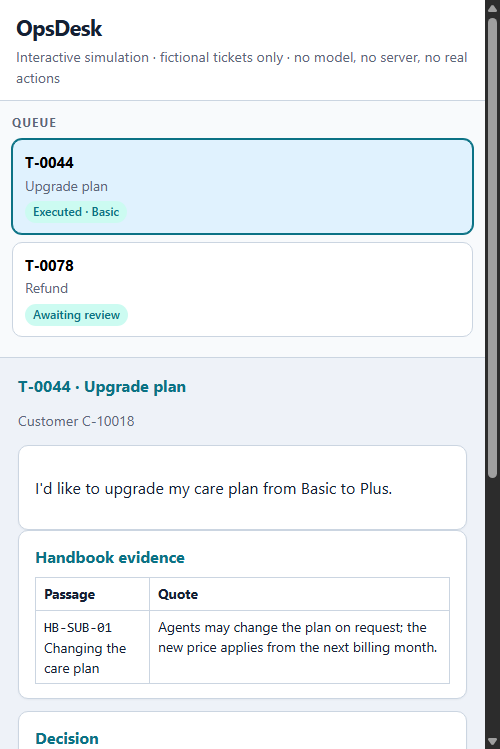
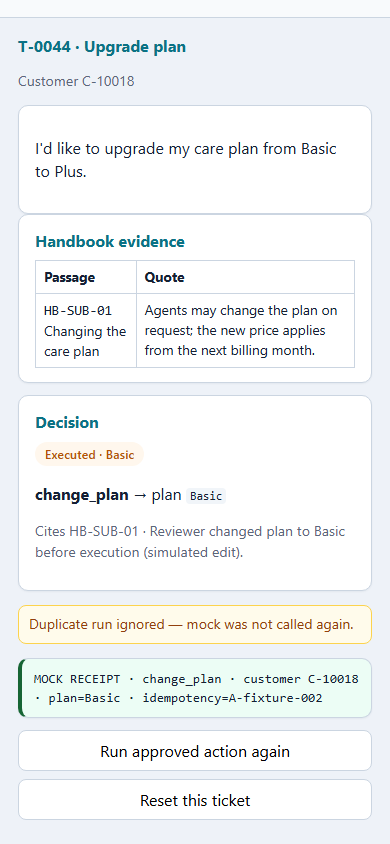
Fix OpsDesk evidence captures: CDP viewports, scroll, measured PNG headers.
Use Emulation DPR 1 at 390/960 CSS px; scroll receipt, refusal, and local execution rows into view; manifest records inner and PNG dimensions.

Changed region(s): [[0.0, 0.0, 1.0, 1.0], [0.0308, 0.4913, 0.8923, 0.6756]]

diff --git a/scripts/capture_t5_evidence.py b/scripts/capture_t5_evidence.py
@@ -1,7 +1,8 @@
-"""Capture README evidence: local FastAPI via HTTP + fixture via real CDP clicks (no URL state injection)."""
+"""Capture README evidence: CDP viewports (DPR 1), scroll-into-view, manifest with measured PNG headers."""
 from __future__ import annotations
 
 import json
+import os
 import re
 import shutil
 import subprocess
@@ -17,21 +18,31 @@ IMG = ROOT / "docs" / "images"
 MANIFEST = ROOT / "docs" / "images" / "opsdesk-t5-evidence-manifest.json"
 FIX = "http://127.0.0.1:8767/fixture-demo/"
 NODE = shutil.which("node") or "node"
+SCRIPT = ROOT / "scripts" / "capture_fixture_cdp.mjs"
 
+LOCAL_SCROLL_REVISE = """(() => {
+  for (const e of document.querySelectorAll('em')) {
+    if (e.textContent.includes('Approved but not run yet')) {
+      e.closest('div.card')?.scrollIntoView({ block: 'start', behavior: 'instant' });
+    }
+  }
+  for (const b of document.querySelectorAll('button')) {
+    if (b.textContent.includes('Save edit as new draft')) {
+      b.scrollIntoView({ block: 'center', behavior: 'instant' });
+    }
+    if (b.textContent.includes('Run mock action')) {
+      b.scrollIntoView({ block: 'center', behavior: 'instant' });
+    }
+  }
+})()"""
 
-def find_browser() -> list[str]:
-    for p in (
-        Path(r"C:\Program Files\Google\Chrome\Application\chrome.exe"),
-        Path(r"C:\Program Files (x86)\Google\Chrome\Application\chrome.exe"),
-        Path(r"C:\Program Files\Microsoft\Edge\Application\msedge.exe"),
-    ):
-        if p.is_file():
-            return [str(p)]
-    for name in ("msedge", "chrome", "google-chrome", "chromium"):
-        p = shutil.which(name)
-        if p:
-            return [p]
-    return []
+LOCAL_SCROLL_EXECUTIONS = """(() => {
+  const hits = [...document.querySelectorAll('p')].filter((p) =>
+    p.textContent.includes('Execution') && (p.textContent.includes('succeeded') || p.textContent.includes('duplicate_ignored'))
+  );
+  hits.forEach((p) => p.scrollIntoView({ block: 'center', behavior: 'instant' }));
+  if (hits.length) hits[hits.length - 1].scrollIntoView({ block: 'end', behavior: 'instant' });
+})()"""
 
 
 def post_local(base: str, path: str, data: dict | None = None) -> None:
@@ -50,30 +61,61 @@ def get_local(base: str, path: str) -> str:
     return urllib.request.urlopen(req, timeout=30).read().decode()
 
 
-def headless_shot(browser: list[str], url: str, out: Path, w: int, h: int) -> None:
-    out.parent.mkdir(parents=True, exist_ok=True)
-    cmd = browser + [
-        "--headless=new",
-        "--disable-gpu",
-        f"--window-size={w},{h}",
-        f"--screenshot={out}",
-        url,
-    ]
-    r = subprocess.run(cmd, capture_output=True, text=True)
-    if r.returncode != 0 or not out.is_file():
-        raise SystemExit(f"screenshot failed: {r.stderr or r.stdout}")
+def parse_meta(stdout: str) -> dict:
+    for line in stdout.splitlines():
+        if line.startswith("CAPTURE_META"):
+            return json.loads(line[len("CAPTURE_META") :])
+    raise SystemExit(f"CDP capture missing CAPTURE_META in:\n{stdout}")
 
 
-def fixture_clicks(url: str, out: Path, w: int, h: int, testids: list[str]) -> None:
-    script = ROOT / "scripts" / "capture_fixture_cdp.mjs"
-    cmd = [NODE, str(script), url, str(out), str(w), str(h), *testids]
-    r = subprocess.run(cmd, cwd=ROOT, capture_output=True, text=True)
+def cdp_capture(
+    url: str,
+    out: Path,
+    css_w: int,
+    css_h: int,
+    clicks: list[str] | None = None,
+    scroll_selectors: list[str] | None = None,
+    scroll_js: str | None = None,
+) -> dict:
+    env = os.environ.copy()
+    if scroll_selectors:
+        env["CAPTURE_SCROLL"] = ",".join(scroll_selectors)
+    else:
+        env.pop("CAPTURE_SCROLL", None)
+    if scroll_js:
+        env["CAPTURE_SCROLL_JS"] = scroll_js
+    else:
+        env.pop("CAPTURE_SCROLL_JS", None)
+    cmd = [NODE, str(SCRIPT), url, str(out), str(css_w), str(css_h), *(clicks or [])]
+    r = subprocess.run(cmd, cwd=ROOT, capture_output=True, text=True, env=env)
     if r.returncode != 0:
-        raise SystemExit(r.stderr or r.stdout or "fixture CDP capture failed")
+        raise SystemExit(r.stderr or r.stdout or "CDP capture failed")
     print(r.stdout.strip())
+    return parse_meta(r.stdout)
 
 
-def prepare_local(base: str) -> tuple[str, str]:
+def entry(
+    rel: str,
+    interaction: str,
+    outcome_claim: str,
+    pixels_visible: str,
+    meta: dict,
+) -> dict:
+    return {
+        "file": rel.replace("\\", "/"),
+        "interaction": interaction,
+        "outcome_claim": outcome_claim,
+        "css_viewport_requested": meta["cssViewport"],
+        "inner_width": meta["innerWidth"],
+        "inner_height": meta["innerHeight"],
+        "device_pixel_ratio": meta["devicePixelRatio"],
+        "png_width": meta["pngWidth"],
+        "png_height": meta["pngHeight"],
+        "pixels_visible": pixels_visible,
+    }
+
+
+def prepare_local_approved(base: str) -> None:
     post_local(base, "/tickets/T-0044/draft")
     html = get_local(base, "/tickets/T-0044")
     pids = re.findall(r"action='/proposals/(P-[a-f0-9]+)/decide'", html)
@@ -82,13 +124,12 @@ def prepare_local(base: str) -> tuple[str, str]:
         raise SystemExit("local ticket page missing approve form")
     post_local(
         base,
-        f"/proposals/{pids[0]}/decide",
-        {"reviewer_id": "rev-agent-ada", "decision": "approve", "seen_hash": hashes[0], "reason": ""},
+        f"/proposals/{pids[-1]}/decide",
+        {"reviewer_id": "rev-agent-ada", "decision": "approve", "seen_hash": hashes[-1], "reason": ""},
     )
     html2 = get_local(base, "/tickets/T-0044")
     if "Approved but not run yet" not in html2:
         raise SystemExit("local approved-unexecuted state missing")
-    return pids[0], hashes[0]
 
 
 def prepare_local_executed(base: str) -> None:
@@ -101,12 +142,9 @@ def prepare_local_executed(base: str) -> None:
 
 
 def main() -> int:
-    browser = find_browser()
-    if not browser:
-        raise SystemExit("Chrome or Edge required for screenshots")
     port = 8772
     base = f"http://127.0.0.1:{port}"
-    manifest = []
+    manifest: list[dict] = []
     db = Path(tempfile.mkdtemp()) / "capture.sqlite"
     server = subprocess.Popen(
         [sys.executable, "-m", "opsdesk.app", "--port", str(port), "--db", str(db)],
@@ -134,78 +172,98 @@ def main() -> int:
                 stdout=subprocess.DEVNULL,
                 stderr=subprocess.DEVNULL,
             )
-            time.sleep(0.4)
+            time.sleep(0.5)
 
-        prepare_local(base)
-        out_revise = IMG / "opsdesk-local-approved-revise.png"
-        headless_shot(browser, f"{base}/tickets/T-0044", out_revise, 920, 880)
+        prepare_local_approved(base)
+        m1 = cdp_capture(
+            f"{base}/tickets/T-0044",
+            IMG / "opsdesk-local-approved-revise.png",
+            920,
+            1050,
+            scroll_js=LOCAL_SCROLL_REVISE,
+        )
         manifest.append(
-            {
-                "file": str(out_revise.relative_to(ROOT)),
-                "viewport": "920x880",
-                "interaction": "HTTP draft + approve (approved-but-unexecuted)",
-                "outcome": "Save edit as new draft + approved banner visible",
-            }
+            entry(
+                "docs/images/opsdesk-local-approved-revise.png",
+                "Fresh in-memory desk: HTTP draft T-0044 + approve (CDP viewport, scroll revise controls)",
+                "Approved-but-unexecuted banner, Save edit as new draft, Run mock action",
+                "Banner, edit form fields, Save edit and Run mock action buttons legible on #f4f7fb",
+                m1,
+            )
         )
 
         prepare_local_executed(base)
-        out_replay = IMG / "opsdesk-local-receipt-replay.png"
-        headless_shot(browser, f"{base}/tickets/T-0044", out_replay, 920, 920)
+        m2 = cdp_capture(
+            f"{base}/tickets/T-0044",
+            IMG / "opsdesk-local-receipt-replay.png",
+            920,
+            1100,
+            scroll_js=LOCAL_SCROLL_EXECUTIONS,
+        )
         manifest.append(
-            {
-                "file": str(out_replay.relative_to(ROOT)),
-                "viewport": "920x920",
-                "interaction": "HTTP approve + execute twice",
-                "outcome": "One succeeded execution + duplicate_ignored in page",
-            }
+            entry(
+                "docs/images/opsdesk-local-receipt-replay.png",
+                "Same ticket: HTTP execute twice (same approval idempotency key)",
+                "Both succeeded and duplicate_ignored execution rows visible",
+                "Two Execution paragraphs with outcomes succeeded and duplicate_ignored and shared idempotency key",
+                m2,
+            )
         )
 
-        fixture_clicks(
+        clicks_full = ["approve-plus", "revise-basic", "approve-basic", "run-basic", "replay"]
+        m3 = cdp_capture(
             FIX,
             IMG / "opsdesk-fixture-simulation.png",
             960,
             980,
-            ["approve-plus", "revise-basic", "approve-basic", "run-basic", "replay"],
+            clicks_full,
+            scroll_selectors=[".receipt", ".duplicate-note"],
         )
         manifest.append(
-            {
-                "file": "docs/images/opsdesk-fixture-simulation.png",
-                "viewport": "960x980",
-                "interaction": "Clicks: approve-plus → revise-basic → approve-basic → run-basic → replay",
-                "outcome": "Basic receipt idempotency A-fixture-002 + duplicate ignored message",
-            }
+            entry(
+                "docs/images/opsdesk-fixture-simulation.png",
+                "Fixture clicks: " + " → ".join(clicks_full),
+                "Basic receipt idempotency A-fixture-002 + duplicate ignored note",
+                "Green receipt line with A-fixture-002 and amber duplicate-run ignored message",
+                m3,
+            )
         )
 
-        fixture_clicks(
+        m4 = cdp_capture(
             FIX,
             IMG / "opsdesk-fixture-simulation-mobile.png",
             390,
             844,
-            ["approve-plus", "revise-basic", "approve-basic", "run-basic", "replay"],
+            clicks_full,
+            scroll_selectors=[".receipt", ".duplicate-note"],
         )
         manifest.append(
-            {
-                "file": "docs/images/opsdesk-fixture-simulation-mobile.png",
-                "viewport": "390x844",
-                "interaction": "Same click path at phone width (520px CSS breakpoint active)",
-                "outcome": "Stacked layout with receipt visible",
-            }
+            entry(
+                "docs/images/opsdesk-fixture-simulation-mobile.png",
+                "Same click path at CSS 390×844 (Emulation DPR 1)",
+                "Stacked phone layout with receipt id and duplicate ignored text",
+                "Receipt idempotency=A-fixture-002 and duplicate ignored message in viewport after scroll",
+                m4,
+            )
         )
 
-        fixture_clicks(
+        clicks_stale = ["approve-plus", "revise-basic", "run-stale"]
+        m5 = cdp_capture(
             FIX,
             IMG / "opsdesk-fixture-stale-refusal-narrow.png",
             390,
             820,
-            ["approve-plus", "revise-basic", "run-stale"],
+            clicks_stale,
+            scroll_selectors=[".refusal", '[data-testid="approve-basic"]', '[data-testid="run-stale"]'],
         )
         manifest.append(
-            {
-                "file": "docs/images/opsdesk-fixture-stale-refusal-narrow.png",
-                "viewport": "390x820",
-                "interaction": "Clicks: approve-plus → revise-basic → run-stale",
-                "outcome": "Superseded approval refusal styling visible",
-            }
+            entry(
+                "docs/images/opsdesk-fixture-stale-refusal-narrow.png",
+                "Fixture clicks: " + " → ".join(clicks_stale),
+                "Superseded approval refusal + Approve for Basic control",
+                "Red refusal text for voided approval and Approve for Basic button visible",
+                m5,
+            )
         )
 
         MANIFEST.write_text(json.dumps(manifest, indent=2), encoding="utf-8")

diff --git a/README.md b/README.md
@@ -338,16 +338,16 @@ baseline, and every action is a mock. `scripts/record_demo.py` makes it again (n
 
 ## Screenshots
 
-Taken 1 Nov 2026 (last-mile pass). The **local FastAPI app** uses real HTTP; the **fixture simulation** is captured by clicking real controls via CDP (`scripts/capture_t5_evidence.py`). Metadata: `docs/images/opsdesk-t5-evidence-manifest.json`.
+Taken 1 Nov 2026 (capture frames pass). Regenerate with `scripts/capture_t5_evidence.py` (CDP `Emulation.setDeviceMetricsOverride`, DPR 1, scroll-into-view). Measured PNG headers and pixel checks: `docs/images/opsdesk-t5-evidence-manifest.json`.
 
 | | |
 |---|---|
 | ![Fixture desktop — executed receipt](docs/images/opsdesk-fixture-simulation.png) | ![Fixture phone — same flow](docs/images/opsdesk-fixture-simulation-mobile.png) |
-| Desktop 960×980: approve → revise → approve Basic → run → duplicate ignored | Phone 390×844: stacked queue + receipt (`A-fixture-002`) |
+| PNG **960×980** (inner 960×980): receipt `A-fixture-002` + duplicate ignored | PNG **390×844** (inner 390×844): same outcomes after scroll |
 | ![Fixture — superseded approval refused](docs/images/opsdesk-fixture-stale-refusal-narrow.png) | ![Local — approved, edit allowed](docs/images/opsdesk-local-approved-revise.png) |
-| Phone 390×820: **Run superseded approval** after revise | Local 920×880: approved-but-unexecuted + **Save edit as new draft** |
+| PNG **390×820**: refusal + **Approve for Basic** | PNG **920×1050**: banner + **Save edit as new draft** + **Run mock action** |
 | ![Local — receipt and ignored replay](docs/images/opsdesk-local-receipt-replay.png) | |
-| Local 920×920: one mock run + **duplicate_ignored** on replay | |
+| PNG **920×1100**: **succeeded** and **duplicate_ignored** rows, same approval key | |
 | ![Ticket list](docs/images/opsdesk-ticket-list.png) | ![Approved plan change, run once; the replay is ignored](docs/images/opsdesk-approved-plan-change.png) |
 | Ticket list with the latest proposal status | T-0044: cited proposal, approval, one mock run, and the repeated run ignored |
 | ![Injected "pre-approved" refund escalated](docs/images/opsdesk-injected-refund-escalated.png) | ![Hash-chained audit log](docs/images/opsdesk-audit-log.png) |
